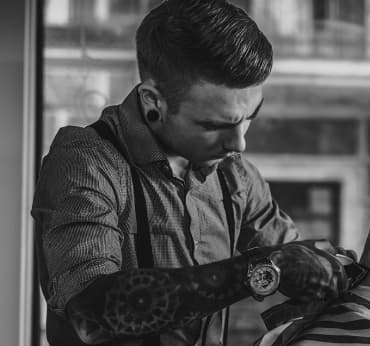
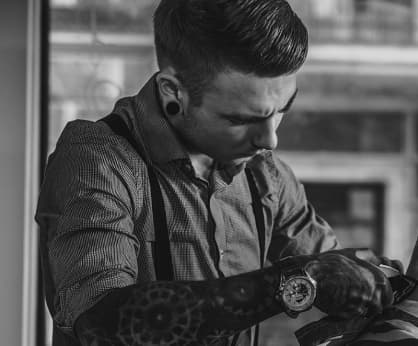
finished barbers-section

diff --git a/css/main.min.css b/css/main.min.css
@@ -1,1 +1,1 @@
-*{padding:0;margin:0;border:0}*,*:before,*:after{-webkit-box-sizing:border-box;box-sizing:border-box}:focus,:active{outline:none}a:focus,a:active{outline:none}nav,footer,header,aside{display:block}html,body{height:100%;width:100%;font-size:100%;line-height:1;font-size:14px;-ms-text-size-adjust:100%;-moz-text-size-adjust:100%;-webkit-text-size-adjust:100%}input,button,textarea{font-family:inherit}input::-ms-clear{display:none}button{cursor:pointer}button::-moz-focus-inner{padding:0;border:0}a,a:visited{text-decoration:none}a:hover{text-decoration:none}ul li{list-style:none}img{vertical-align:top;max-width:100%;height:auto}h1,h2,h3,h4,h5,h6{font-size:inherit;font-weight:400}.visually-hidden{position:absolute;width:1px;height:1px;margin:-1px;border:0;padding:0;white-space:nowrap;-webkit-clip-path:inset(100%);clip-path:inset(100%);clip:rect(0 0 0 0);overflow:hidden}body{font-family:"Open Sans",sans-serif;color:#303030}.container{margin:0 auto;padding:0 15px}.reference{display:-webkit-box;display:-ms-flexbox;display:flex;-webkit-box-align:center;-ms-flex-align:center;align-items:center;margin-bottom:20px;font-size:11px;line-height:1.3636363636;font-weight:600;text-transform:uppercase;color:#fff}.reference::before{content:"";margin-right:20px;height:1px;width:60px;background-color:rgba(157,164,189,.6)}.light-reference{color:rgba(157,164,189,.6)}.dark-reference{color:#303030}.dark-reference::before{content:"";margin-right:20px;height:1px;width:60px;background-color:#303030}.hero__reference{letter-spacing:.1em}.portfolio__reference{margin-bottom:71px}.header{position:absolute;top:0;left:0;width:100%;padding-top:40px;background-color:rgba(0,0,0,0)}.header__container{display:-webkit-box;display:-ms-flexbox;display:flex;-webkit-box-pack:justify;-ms-flex-pack:justify;justify-content:space-between;-webkit-box-align:center;-ms-flex-align:center;align-items:center}.logo{fill:#fff}.header__wrapper{display:none}.hero{padding:208px 0;background-image:url(../image/hero/phone/slider-3.jpg);background-repeat:no-repeat;background-position:center;background-size:cover}.hero__title{margin-bottom:20px;font-weight:700;font-size:48px;line-height:1.1666666667;letter-spacing:.05em;color:#fff}.hero__descrp{font-size:16px;line-height:1.625;letter-spacing:.02em;color:#9da4bd}.about{padding:84px 0}.about__title{margin-bottom:20px;font-weight:700;font-size:28px;line-height:1.1785714286;letter-spacing:.05em;color:#303030}.about__descrp{margin-bottom:20px;font-size:16px;line-height:1.625;letter-spacing:.02em;color:#555}.about__text{margin-bottom:40px;font-size:14px;line-height:1.8571428571;letter-spacing:.02em;color:#555}.service{padding:84px 0;background-image:url(../image/services/service.png);background-color:#111319;background-repeat:no-repeat;background-position:center;background-size:cover}.service__title{margin-bottom:44px;font-weight:700;font-size:40px;line-height:1.175;letter-spacing:.05em;color:#fff}.service__list{padding:30px 0;padding-left:40px;padding-right:20px;margin-bottom:44px;background:-webkit-gradient(linear, left top, left bottom, from(#171a24), to(rgba(23, 26, 36, 0.2)));background:linear-gradient(180deg, #171a24 0%, rgba(23, 26, 36, 0.2) 100%)}@media screen and (max-width: 1199px){.service__item:not(:last-child){margin-bottom:20px}}.item__price{display:-webkit-box;display:-ms-flexbox;display:flex}.item__price:not(:last-child){margin-bottom:20px}.item__price::after{content:"";-webkit-box-flex:1;-ms-flex-positive:1;flex-grow:1;-ms-flex-item-align:end;align-self:flex-end;height:1px;margin:0 4px;-webkit-box-ordinal-group:1;-ms-flex-order:0;order:0;background-color:rgba(157,164,189,.12)}.price__title{-webkit-box-ordinal-group:1;-ms-flex-order:0;order:0;font-size:14px;line-height:1.4285714286;letter-spacing:.02em;color:#9da4bd}.price__descrp{-webkit-box-ordinal-group:2;-ms-flex-order:1;order:1;font-size:14px;line-height:1.4285714286;letter-spacing:.02em;color:#9da4bd}.reviews{padding:84px 0}.reviews__title{margin-bottom:20px;font-weight:700;font-size:42px;line-height:1.1666666667;letter-spacing:.05em;color:#303030}.reviews__descrp{margin-bottom:44px;font-size:18px;line-height:1.6666666667;letter-spacing:.02em;color:#555}.reviews__list{display:-webkit-box;display:-ms-flexbox;display:flex;-ms-flex-wrap:wrap;flex-wrap:wrap}.reviews__item{padding:20px 0;width:calc((100% - 30px)/2);height:133px;text-align:center;background-color:#f7f7f7}.reviews__item:nth-child(2){margin-top:35px;margin-bottom:30px}.reviews__item:nth-child(3){margin-top:-35px}.reviews__item:not(:nth-child(2n)){margin-right:30px}.reviews__number{display:-webkit-inline-box;display:-ms-inline-flexbox;display:inline-flex;-webkit-box-align:start;-ms-flex-align:start;align-items:flex-start;margin-bottom:6px;font-weight:700;font-size:42px;line-height:1.3571428571;letter-spacing:.05em;color:#303030}.reviews__number sup{padding-top:14px;padding-left:4px;font-weight:600;font-size:16px;line-height:1.375;color:#ff6c00}.reviews__number-descrp{font-weight:600;font-size:11px;line-height:1.3636363636;color:#303030}/*# sourceMappingURL=main.min.css.map */
+*{padding:0;margin:0;border:0}*,*:before,*:after{-webkit-box-sizing:border-box;box-sizing:border-box}:focus,:active{outline:none}a:focus,a:active{outline:none}nav,footer,header,aside{display:block}html,body{height:100%;width:100%;font-size:100%;line-height:1;font-size:14px;-ms-text-size-adjust:100%;-moz-text-size-adjust:100%;-webkit-text-size-adjust:100%}input,button,textarea{font-family:inherit}input::-ms-clear{display:none}button{cursor:pointer}button::-moz-focus-inner{padding:0;border:0}a,a:visited{text-decoration:none}a:hover{text-decoration:none}ul li{list-style:none}img{vertical-align:top;max-width:100%;height:auto}h1,h2,h3,h4,h5,h6{font-size:inherit;font-weight:400}.visually-hidden{position:absolute;width:1px;height:1px;margin:-1px;border:0;padding:0;white-space:nowrap;-webkit-clip-path:inset(100%);clip-path:inset(100%);clip:rect(0 0 0 0);overflow:hidden}body{font-family:"Open Sans",sans-serif;color:#303030}.container{margin:0 auto;padding:0 15px}.reference{display:-webkit-box;display:-ms-flexbox;display:flex;-webkit-box-align:center;-ms-flex-align:center;align-items:center;margin-bottom:20px;font-size:11px;line-height:1.3636363636;font-weight:600;text-transform:uppercase;color:#fff}.reference::before{content:"";margin-right:20px;height:1px;width:60px;background-color:rgba(157,164,189,.6)}.light-reference{color:rgba(157,164,189,.6)}.dark-reference{color:#303030}.dark-reference::before{content:"";margin-right:20px;height:1px;width:60px;background-color:#303030}.hero__reference{letter-spacing:.1em}.portfolio__reference{margin-bottom:71px}.header{position:absolute;top:0;left:0;width:100%;padding-top:40px;background-color:rgba(0,0,0,0)}.header__container{display:-webkit-box;display:-ms-flexbox;display:flex;-webkit-box-pack:justify;-ms-flex-pack:justify;justify-content:space-between;-webkit-box-align:center;-ms-flex-align:center;align-items:center}.logo{fill:#fff}.header__wrapper{display:none}.hero{padding:208px 0;background-image:url(../image/hero/phone/slider-3.jpg);background-repeat:no-repeat;background-position:center;background-size:cover}.hero__title{margin-bottom:20px;font-weight:700;font-size:48px;line-height:1.1666666667;letter-spacing:.05em;color:#fff}.hero__descrp{font-size:16px;line-height:1.625;letter-spacing:.02em;color:#9da4bd}.about{padding:84px 0}.about__title{margin-bottom:20px;font-weight:700;font-size:28px;line-height:1.1785714286;letter-spacing:.05em;color:#303030}.about__descrp{margin-bottom:20px;font-size:16px;line-height:1.625;letter-spacing:.02em;color:#555}.about__text{margin-bottom:40px;font-size:14px;line-height:1.8571428571;letter-spacing:.02em;color:#555}.service{padding:84px 0;background-image:url(../image/services/service.png);background-color:#111319;background-repeat:no-repeat;background-position:center;background-size:cover}.service__title{margin-bottom:44px;font-weight:700;font-size:40px;line-height:1.175;letter-spacing:.05em;color:#fff}.service__list{padding:30px 0;padding-left:40px;padding-right:20px;margin-bottom:44px;background:-webkit-gradient(linear, left top, left bottom, from(#171a24), to(rgba(23, 26, 36, 0.2)));background:linear-gradient(180deg, #171a24 0%, rgba(23, 26, 36, 0.2) 100%)}@media screen and (max-width: 1199px){.service__item:not(:last-child){margin-bottom:20px}}.item__price{display:-webkit-box;display:-ms-flexbox;display:flex}.item__price:not(:last-child){margin-bottom:20px}.item__price::after{content:"";-webkit-box-flex:1;-ms-flex-positive:1;flex-grow:1;-ms-flex-item-align:end;align-self:flex-end;height:1px;margin:0 4px;-webkit-box-ordinal-group:1;-ms-flex-order:0;order:0;background-color:rgba(157,164,189,.12)}.price__title{-webkit-box-ordinal-group:1;-ms-flex-order:0;order:0;font-size:14px;line-height:1.4285714286;letter-spacing:.02em;color:#9da4bd}.price__descrp{-webkit-box-ordinal-group:2;-ms-flex-order:1;order:1;font-size:14px;line-height:1.4285714286;letter-spacing:.02em;color:#9da4bd}.reviews{padding:84px 0}.reviews__title{margin-bottom:20px;font-weight:700;font-size:42px;line-height:1.1666666667;letter-spacing:.05em;color:#303030}.reviews__descrp{margin-bottom:44px;font-size:18px;line-height:1.6666666667;letter-spacing:.02em;color:#555}.reviews__list{display:-webkit-box;display:-ms-flexbox;display:flex;-ms-flex-wrap:wrap;flex-wrap:wrap}.reviews__item{padding:20px 0;width:calc((100% - 30px)/2);height:133px;text-align:center;background-color:#f7f7f7}.reviews__item:nth-child(2){margin-top:35px;margin-bottom:30px}.reviews__item:nth-child(3){margin-top:-35px}.reviews__item:not(:nth-child(2n)){margin-right:30px}.reviews__number{display:-webkit-inline-box;display:-ms-inline-flexbox;display:inline-flex;-webkit-box-align:start;-ms-flex-align:start;align-items:flex-start;margin-bottom:6px;font-weight:700;font-size:42px;line-height:1.3571428571;letter-spacing:.05em;color:#303030}.reviews__number sup{padding-top:14px;padding-left:4px;font-weight:600;font-size:16px;line-height:1.375;color:#ff6c00}.reviews__number-descrp{font-weight:600;font-size:11px;line-height:1.3636363636;color:#303030}.barbers{padding:84px 0;background-color:#f7f7f7}.barbers__title{margin-bottom:44px;font-weight:700;font-size:42px;line-height:1.1666666667;letter-spacing:.05em;color:#303030}.barbers__item:not(:last-child){margin-bottom:64px}.barbers-wrapper{padding-top:30px;text-align:center}.barbers__name{margin-bottom:8px;font-size:18px;line-height:1.3888888889;letter-spacing:.02em;color:#303030}.barbers__position{margin-bottom:30px;font-size:14px;line-height:1.7857142857;letter-spacing:.02em;color:#ff6c00}.barbers__social{display:-webkit-box;display:-ms-flexbox;display:flex;-webkit-box-pack:center;-ms-flex-pack:center;justify-content:center;-webkit-box-align:center;-ms-flex-align:center;align-items:center;gap:10px}.barbers__social-link{display:-webkit-box;display:-ms-flexbox;display:flex;padding:12px;color:#303030;background-color:#fff;border-radius:50%}.barbers__social-link:hover,.barbers__social-link:focus{color:#ff6c00}.barbers__svg{fill:currentColor}/*# sourceMappingURL=main.min.css.map */

diff --git a/index.html b/index.html
@@ -233,7 +233,16 @@
 
 				<ul class="barbers__list">
 					<li class="barbers__item">
-						<img src="./image/our_barbers/barber_1.jpg" alt="barber#1">
+						<picture>
+							<source srcset="./image/our_barbers/barber_1-desktop.jpg" media="(min-width: 1200px)"
+								type="image/jpg">
+
+							<source srcset="./image/our_barbers/barber_1-tablet.jpg" media="(min-width: 768px)"
+								type="image/jpg">
+
+							<img class="barbers__img" src="./image/our_barbers/barber_1.jpg" alt="barber#1">
+						</picture>
+
 						<div class="barbers-wrapper">
 							<h3 class="barbers__name">
 								John Smith
@@ -278,7 +287,16 @@
 						</div>
 					</li>
 					<li class="barbers__item">
-						<img src="./image/our_barbers/barber_2.jpg" alt="barber#2">
+						<picture>
+							<source srcset="./image/our_barbers/barber_2-desktop.jpg" media="(min-width: 1200px)"
+								type="image/jpg">
+
+							<source srcset="./image/our_barbers/barber_2-tablet.jpg" media="(min-width: 768px)"
+								type="image/jpg">
+
+							<img class="barbers__img" src="./image/our_barbers/barber_2.jpg" alt="barber#2">
+						</picture>
+
 						<div class="barbers-wrapper">
 							<h3 class="barbers__name">
 								Michele Doe
@@ -323,7 +341,16 @@
 						</div>
 					</li>
 					<li class="barbers__item">
-						<img src="./image/our_barbers/barber_3.jpg" alt="barber#3">
+						<picture>
+							<source srcset="./image/our_barbers/barber_3-desktop.jpg" media="(min-width: 1200px)"
+								type="image/jpg">
+
+							<source srcset="./image/our_barbers/barber_3-tablet.jpg" media="(min-width: 768px)"
+								type="image/jpg">
+
+							<img class="barbers__img" src="./image/our_barbers/barber_3.jpg" alt="barber#3">
+						</picture>
+
 						<div class="barbers-wrapper">
 							<h3 class="barbers__name">
 								Alan Black

diff --git a/css/main.css b/css/main.css
@@ -395,4 +395,73 @@ body {
   font-size: 11px;
   line-height: 1.3636363636;
   color: #303030;
+}
+
+.barbers {
+  padding: 84px 0;
+  background-color: #f7f7f7;
+}
+
+.barbers__title {
+  margin-bottom: 44px;
+  font-weight: 700;
+  font-size: 42px;
+  line-height: 1.1666666667;
+  letter-spacing: 0.05em;
+  color: #303030;
+}
+
+.barbers__item:not(:last-child) {
+  margin-bottom: 64px;
+}
+
+.barbers-wrapper {
+  padding-top: 30px;
+  text-align: center;
+}
+
+.barbers__name {
+  margin-bottom: 8px;
+  font-size: 18px;
+  line-height: 1.3888888889;
+  letter-spacing: 0.02em;
+  color: #303030;
+}
+
+.barbers__position {
+  margin-bottom: 30px;
+  font-size: 14px;
+  line-height: 1.7857142857;
+  letter-spacing: 0.02em;
+  color: #ff6c00;
+}
+
+.barbers__social {
+  display: -webkit-box;
+  display: -ms-flexbox;
+  display: flex;
+  -webkit-box-pack: center;
+      -ms-flex-pack: center;
+          justify-content: center;
+  -webkit-box-align: center;
+      -ms-flex-align: center;
+          align-items: center;
+  gap: 10px;
+}
+
+.barbers__social-link {
+  display: -webkit-box;
+  display: -ms-flexbox;
+  display: flex;
+  padding: 12px;
+  color: #303030;
+  background-color: #ffffff;
+  border-radius: 50%;
+}
+.barbers__social-link:hover, .barbers__social-link:focus {
+  color: #ff6c00;
+}
+
+.barbers__svg {
+  fill: currentColor;
 }/*# sourceMappingURL=main.css.map */

diff --git a/sass/layout/_barbers.scss b/sass/layout/_barbers.scss
@@ -1,0 +1,76 @@
+.barbers {
+	padding: 84px 0;
+	background-color: $light-bg-color;
+}
+
+.barbers__title {
+	margin-bottom: 44px;
+
+	font-weight: 700;
+	@include font-line(42px, 49px);
+	letter-spacing: 0.05em;
+	color: $primary-text-color;
+}
+
+.barbers__list {
+	// margin: 0 auto;
+}
+
+.barbers__item {
+	&:not(:last-child) {
+		margin-bottom: 64px;
+	}
+}
+
+.barbers__img {
+}
+
+.barbers-wrapper {
+	padding-top: 30px;
+
+	text-align: center;
+}
+
+.barbers__name {
+	margin-bottom: 8px;
+
+	@include font-line(18px, 25px);
+	letter-spacing: 0.02em;
+	color: $primary-text-color;
+}
+
+.barbers__position {
+	margin-bottom: 30px;
+
+	@include font-line($line-height: 25px);
+	letter-spacing: 0.02em;
+	color: $accent-color;
+}
+
+.barbers__social {
+	display: flex;
+	justify-content: center;
+	align-items: center;
+	gap: 10px;
+}
+
+.barbers__social-item {
+}
+
+.barbers__social-link {
+	display: flex;
+	padding: 12px;
+
+	color: $primary-text-color;
+	background-color: $quaternary-text-color;
+	border-radius: 50%;
+
+	&:hover,
+	&:focus {
+		color: $accent-color;
+	}
+}
+
+.barbers__svg {
+	fill: currentColor;
+}

diff --git a/sass/main.scss b/sass/main.scss
@@ -18,3 +18,4 @@
 @import "./layout/about";
 @import "./layout/service";
 @import "./layout/reviews";
+@import "./layout/barbers";
